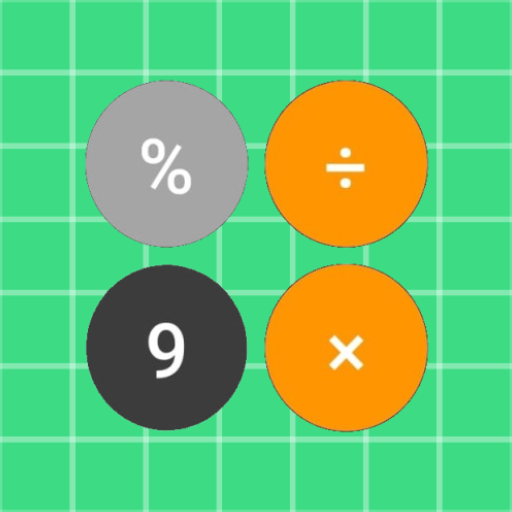
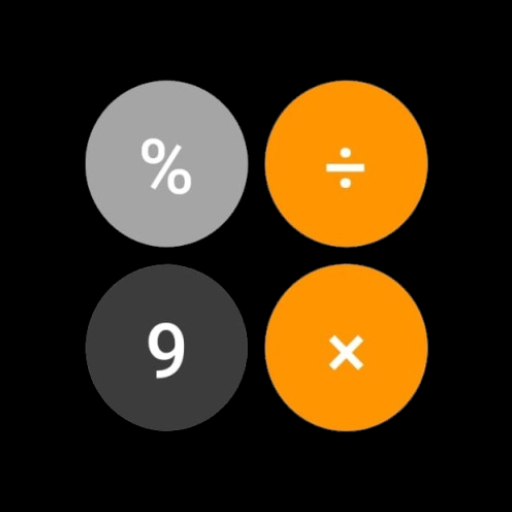
fondoNegroSplash

diff --git a/Front-end/app/src/main/java/com/example/appGrabacion/MainActivity.java b/Front-end/app/src/main/java/com/example/appGrabacion/MainActivity.java
@@ -3,6 +3,7 @@ package com.example.appGrabacion;
 import android.Manifest;
 import android.content.Intent;
 import android.content.pm.PackageManager;
+import android.graphics.Color;
 import android.graphics.SurfaceTexture;
 import android.hardware.camera2.*;  // Clases para manejar la cámara a través de Camera2 API
 import android.media.MediaRecorder;  // Para grabar video y audio
@@ -102,8 +103,10 @@ public class MainActivity extends AppCompatActivity implements TextureView.Surfa
     // Método onCreate: Se configura la UI y se inician servicios según corresponda
     @Override
     protected void onCreate(Bundle savedInstanceState) {
+        setTheme(R.style.Theme_Calculadora_Front);
         super.onCreate(savedInstanceState);
         setContentView(R.layout.activity_main); // Se establece el layout de la actividad
+
 
         // Se obtienen los elementos de texto de la interfaz
         txtDisplay = findViewById(R.id.txtDisplay);
